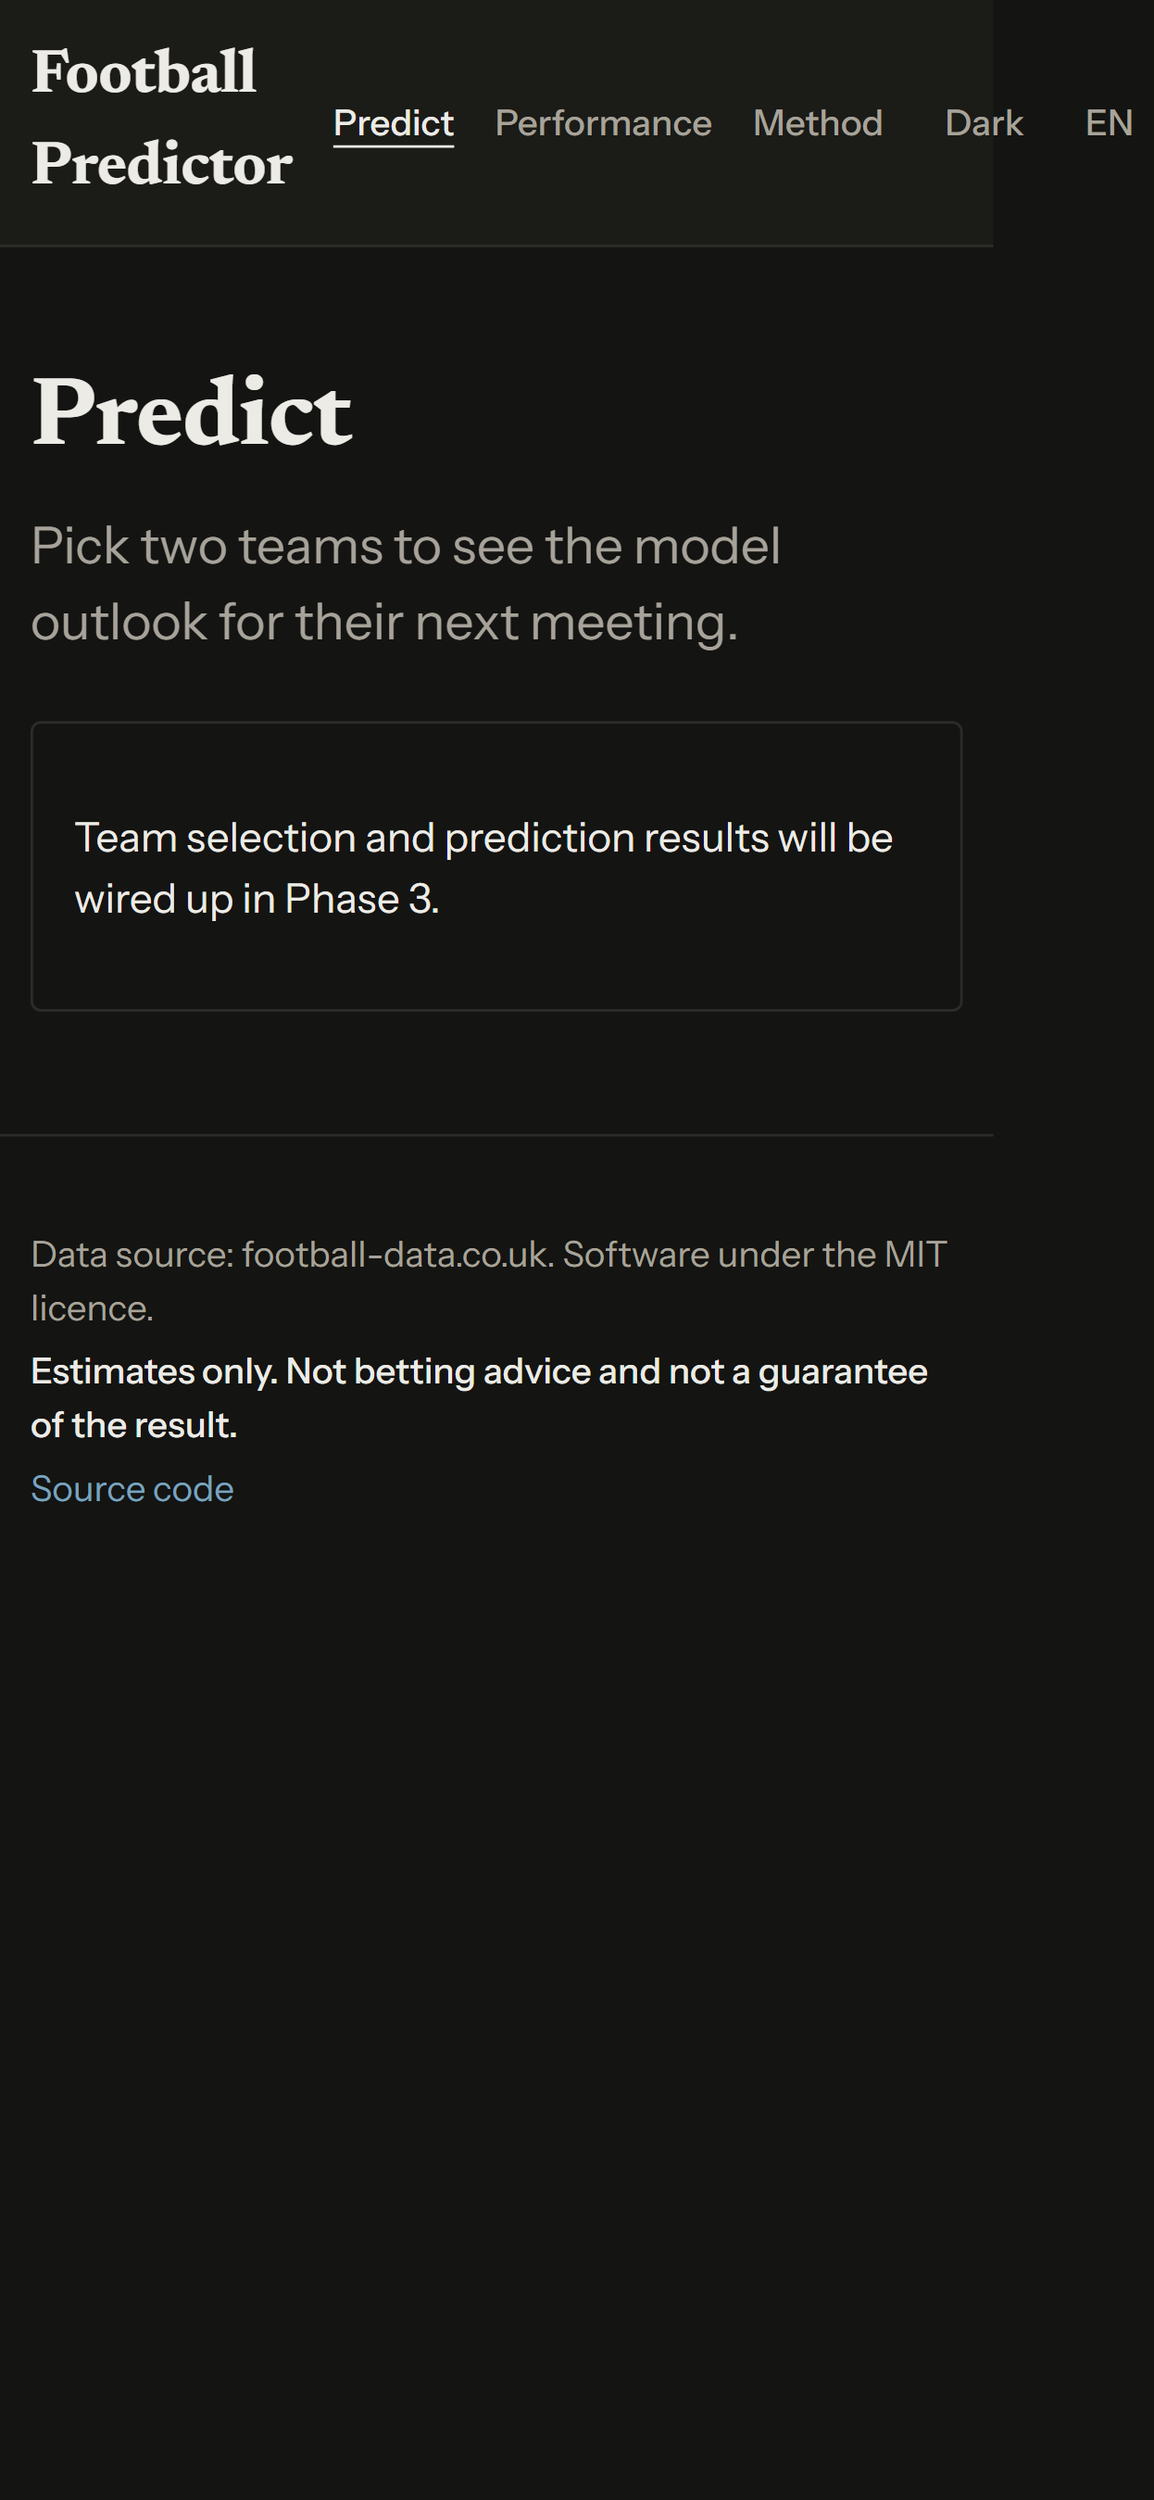
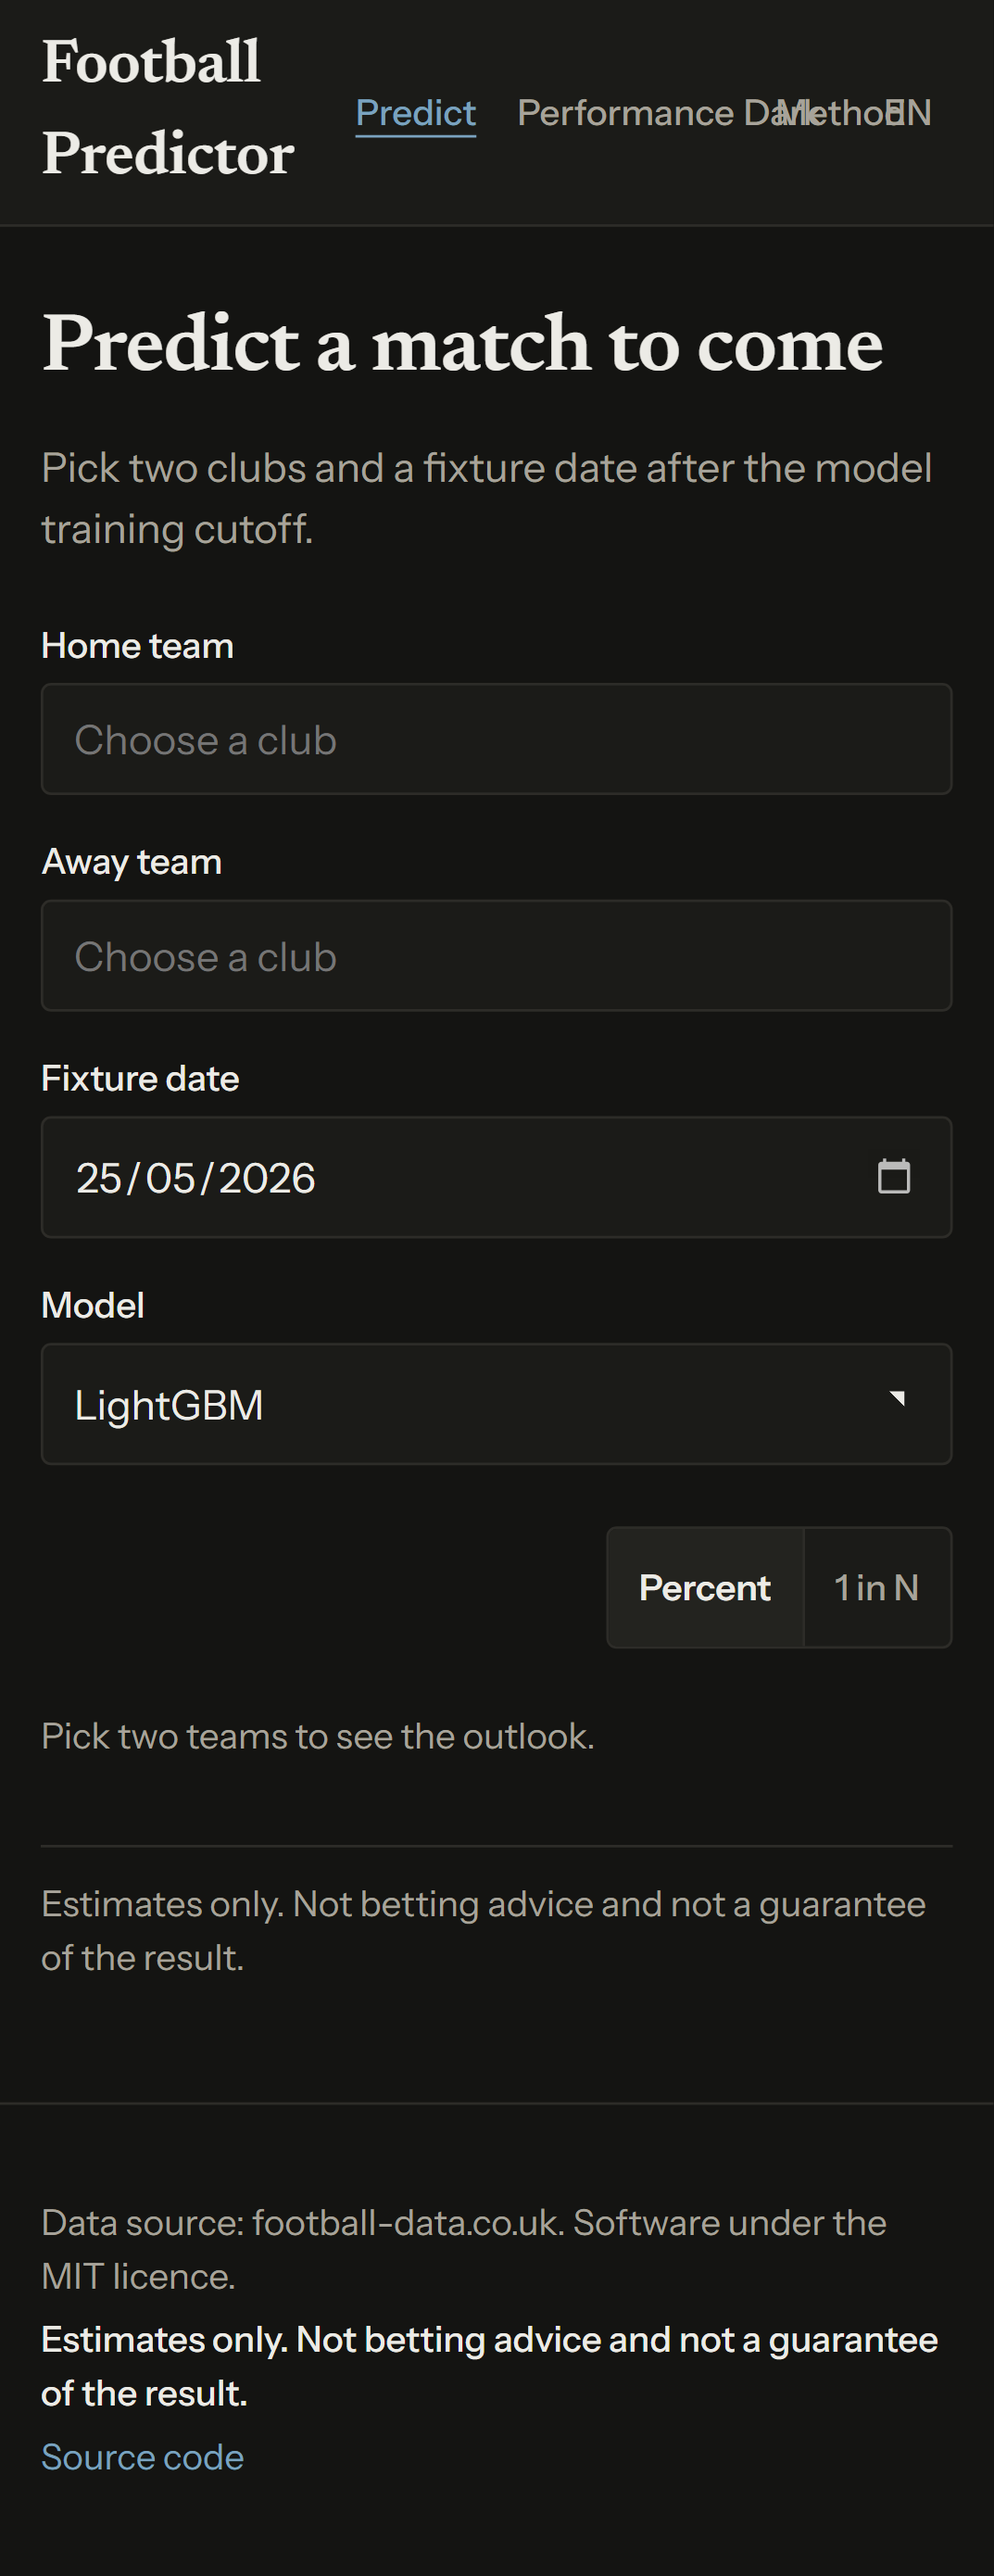
docs(web): update design notes and screenshots after layout fix

diff --git a/web/DESIGN.md b/web/DESIGN.md
@@ -195,3 +195,10 @@ Single text column at roughly 65 characters. Section headings, short paragraphs,
 - A `GET /health`-style field naming the available models and a recommended default would remove the need to read the OpenAPI default, but the front end can already use the API's documented default (`lightgbm`).
 - If real SHAP is unavailable from a deployed bundle, the current API already supplies contributions; no addition needed.
 - No other endpoint changes are proposed. CORS is not needed because the Vite dev proxy will reach the API directly.<|end|><|start|>write to=assistant<|channel|>analysis<|message|>Created file successfully: web/DESIGN.md
+## Layout fix pass notes
+
+- Shell width changed to 1120px with a `Container` used by header, main and footer.
+- Header uses a left-aligned wordmark/navigation group and right-aligned controls.
+- Predict controls use 4/2/1 columns; goals and scorelines use a 7/5 split desktop.
+- Outcome numerals use one source (`ProbabilityBar`) with the same display mode.
+- The date input follows the theme color scheme and `prefers-reduced-motion` remains unchanged.
